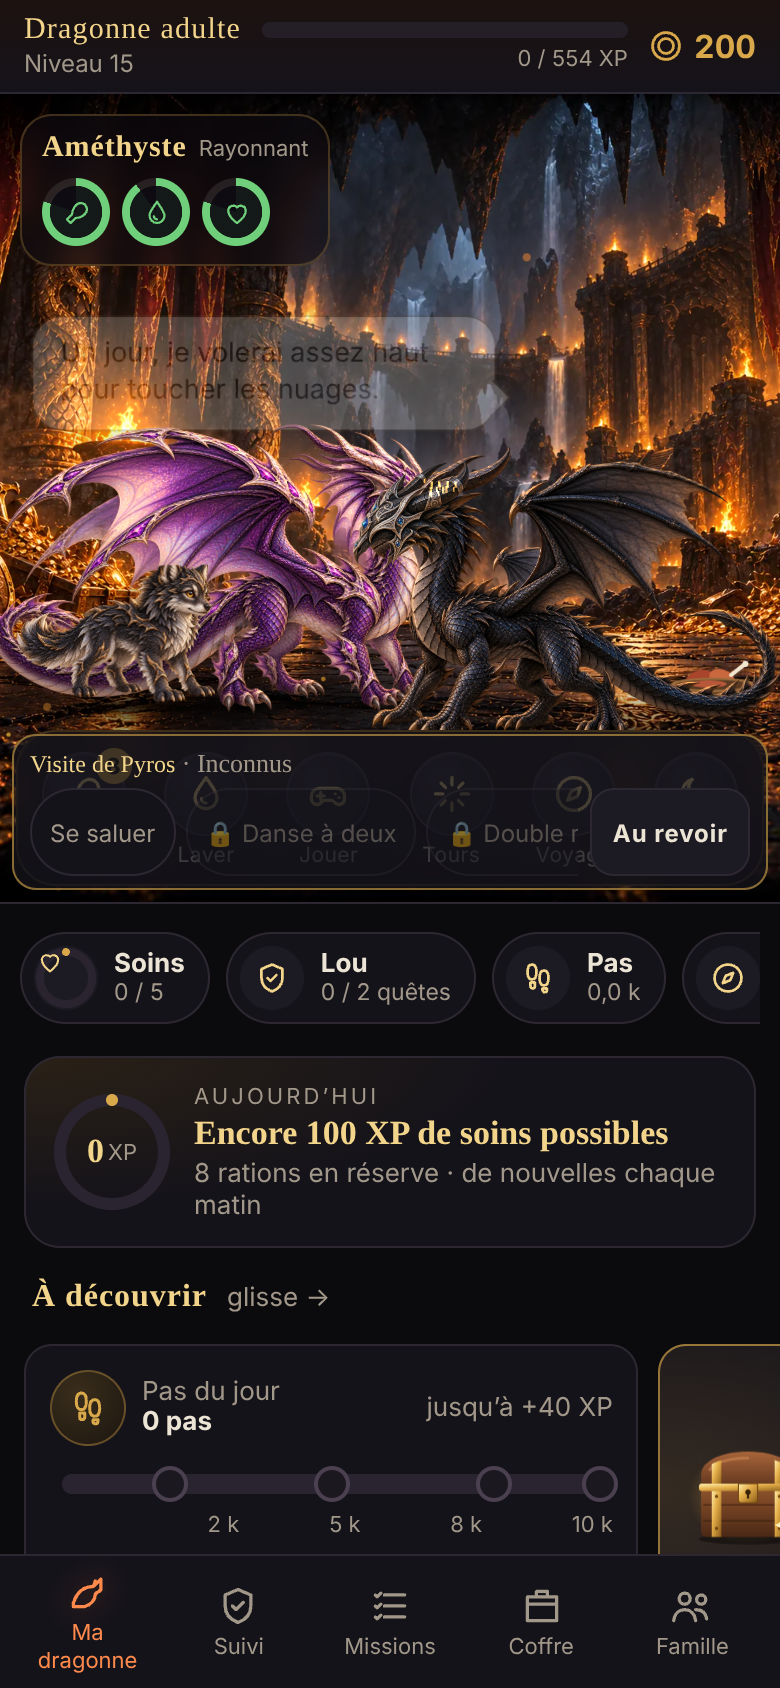
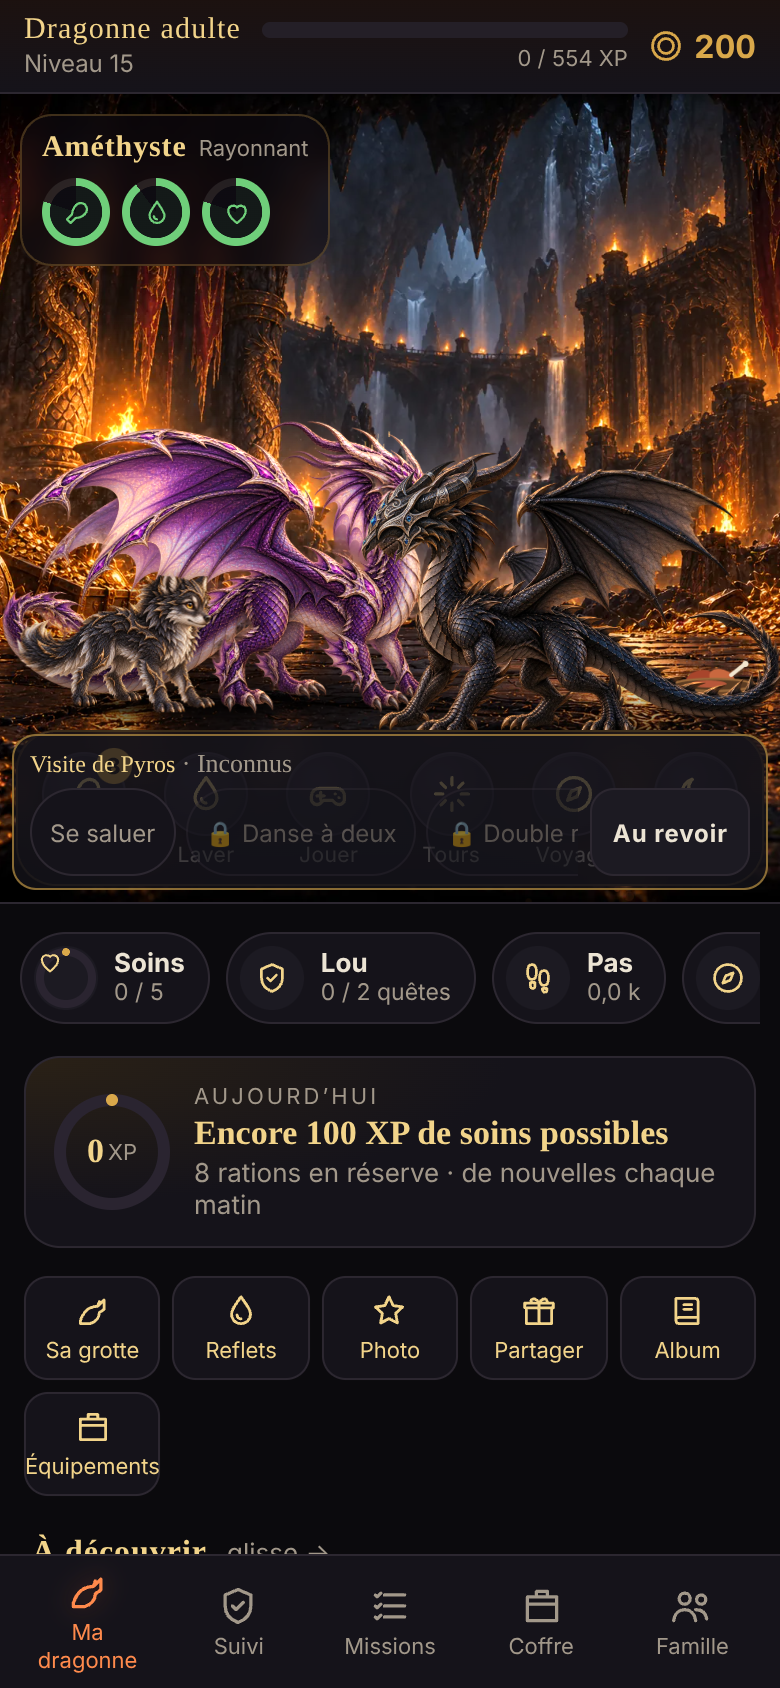
Tuiles plus compactes, boutons au-dessus des tuiles, carte d'amitié en une ligne, taille du texte fixe (pas de chevauchement), légende des pas alignée
Claude-Session: https://claude.ai/code/session_01M7p8gpSsNEM6T66Za4pvnS

diff --git a/src/ui/screens/DragonScreen.ts b/src/ui/screens/DragonScreen.ts
@@ -44,9 +44,6 @@ export class DragonScreen implements Screen {
       todayStrip(app),
       this.nameCard(comp),
       book ? questDeck(app) : this.careStrip(comp),
-      h('div', { class: 'disc-head' }, h('h3', null, 'À découvrir'), h('span', { class: 'small muted' }, 'glisse →')),
-      h('div', { class: 'disc' }, ...discover.map(c => h('div', { class: 'disc-item' }, c))),
-      app.family.duo ? this.friendCard(comp) : null,
       h('div', { class: 'ds-tools' },
         h('button', { class: 'ds-tool', onclick: () => openLair(app) }, icon(ICONS.dragon, 22), h('span', null, 'Sa grotte')),
         h('button', { class: 'ds-tool', onclick: () => appearanceSheet(app) }, icon(ICONS.drop, 22), h('span', null, 'Reflets')),
@@ -54,6 +51,9 @@ export class DragonScreen implements Screen {
         h('button', { class: 'ds-tool', onclick: () => void shareCard(app) }, icon(ICONS.gift, 22), h('span', null, 'Partager')),
         h('button', { class: 'ds-tool', onclick: () => this.albumSheet(comp) }, icon(ICONS.album, 22), h('span', null, 'Album')),
         app.isParent ? h('button', { class: 'ds-tool', onclick: () => app.openChest('owned') }, icon(ICONS.inventory, 22), h('span', null, 'Équipements')) : null),
+      h('div', { class: 'disc-head' }, h('h3', null, 'À découvrir'), h('span', { class: 'small muted' }, 'glisse →')),
+      h('div', { class: 'disc' }, ...discover.map(c => h('div', { class: 'disc-item' }, c))),
+      app.family.duo ? this.friendCard(comp) : null,
       app.careMode === 'wash' ? h('p', { class: 'small muted ds-hint' }, 'Mode lavage : frotte ses écailles avec ton doigt jusqu’à ce qu’il brille.') : null
     );
   }
@@ -113,26 +113,25 @@ export class DragonScreen implements Screen {
     if (!f) return h('section', { class: 'card friend-card' },
       h('h3', null, app.isParent ? 'Le dragon de votre enfant' : 'La dragonne de tes parents'),
       h('p', { class: 'small muted' }, 'Les deux dragons se rencontreront dès que vos deux téléphones auront ouvert l’appli à la maison (même Wi-Fi).'));
+    const hug = async () => {
+      const r = await duo.sendHug();
+      if (r === 'limit') { app.toast('Déjà 3 câlins aujourd’hui'); return; }
+      if (r !== 'ok') return;
+      app.view.emit('hearts', 'head_anchor');
+      void app.act('happy');
+      app.say(`Je transmets ton câlin à ${f.name} !`, null, 4000);
+      this.refresh();
+    };
+    const gifts = unlocked(app, 'gifts');
     return h('section', { class: 'card friend-card' },
-      h('div', { class: 'row' },
+      h('div', { class: 'fr-head' },
         h('div', { class: 'grow' }, h('div', { class: 'small muted' }, `${f.variant === 'dragonne' ? 'La dragonne' : 'Le dragon'} de ${f.owner}`), h('div', { class: 'item-name' }, `${f.name} · niveau ${f.level}`)),
-        h('div', { class: 'bond' }, h('div', { class: 'small' }, `${comp.name} & ${f.name} : ${lv.label}`),
+        h('div', { class: 'bond' }, h('div', { class: 'small' }, `Amitié : ${lv.label}`),
           h('div', { class: 'bar bond-bar' }, h('div', { class: 'fill', style: { width: `${Math.round(lv.progress * 100)}%` } })))),
-      h('p', { class: 'small muted' }, 'Chaque visite, câlin ou cadeau les rapproche, et débloque des tours à deux.'),
-      h('div', { class: 'row' },
-        h('button', { class: 'btn primary grow', onclick: () => this.visitSheet(comp) }, `Rendre visite à ${f.name}`),
-        h('span', { class: 'small muted' }, `${duo.visitsLeft()} / 3 aujourd’hui`)),
-      !unlocked(app, 'gifts') ? h('p', { class: 'small muted' }, `Câlins et cadeaux cachés : au niveau ${UNLOCK_LEVEL.gifts}.`) : h('div', { class: 'row fr-more' },
-        h('button', { class: 'btn grow', disabled: !duo.hugsLeft(), onclick: async () => {
-          const r = await duo.sendHug();
-          if (r === 'limit') { app.toast('Déjà 3 câlins aujourd’hui'); return; }
-          if (r !== 'ok') return;
-          app.view.emit('hearts', 'head_anchor');
-          void app.act('happy');
-          app.say(`Je transmets ton câlin à ${f.name} !`, null, 4000);
-          this.refresh();
-        } }, icon(ICONS.heart, 16), ` Câlin (${duo.hugsLeft()})`),
-        h('button', { class: 'btn grow', disabled: !duo.hidesLeft(), onclick: () => this.giftSheet(comp, 'hide') }, icon(ICONS.gift, 16), ' Cadeau caché')),
+      h('div', { class: 'fr-actions' },
+        h('button', { class: 'btn primary', disabled: !duo.visitsLeft(), onclick: () => this.visitSheet(comp) }, icon(ICONS.wing, 16), h('span', null, 'Visite'), h('small', null, `${duo.visitsLeft()}/3`)),
+        h('button', { class: 'btn', disabled: !gifts || !duo.hugsLeft(), onclick: () => void hug() }, icon(ICONS.heart, 16), h('span', null, 'Câlin'), h('small', null, gifts ? `${duo.hugsLeft()}/3` : `niv. ${UNLOCK_LEVEL.gifts}`)),
+        h('button', { class: 'btn', disabled: !gifts || !duo.hidesLeft(), onclick: () => this.giftSheet(comp, 'hide') }, icon(ICONS.gift, 16), h('span', null, 'Cadeau'), h('small', null, gifts ? `${duo.hidesLeft()}/2` : `niv. ${UNLOCK_LEVEL.gifts}`))),
       this.outingRow());
   }
 

diff --git a/www/css/compact.css b/www/css/compact.css
@@ -1,0 +1,67 @@
+/* Octobre 2026 : tuiles « À découvrir » plus compactes (police et marges réduites), sans chevauchement. Chargé en dernier. */
+.disc-item { flex-basis: 78%; }
+.disc-item > .card, .disc-item > section, .disc-item > button.card { padding: 10px 12px !important; font-size: 13px; line-height: 1.3; }
+.disc-item h3 { font-size: 15px !important; line-height: 1.25; }
+.disc-item p, .disc-item .small { font-size: 12px !important; line-height: 1.3; margin: 2px 0; }
+.disc-item .item-name { font-size: 14px; line-height: 1.25; }
+.disc-item .btn { padding: 6px 12px; font-size: 13px; min-height: 0; }
+.disc-item .bar, .disc-item .st-track { margin-top: 4px; }
+/* événement */
+.disc-item .ev-candies i { width: 18px; height: 18px; }
+/* pas */
+.disc-item .st-ico, .disc-item .pt-ico { width: 30px; height: 30px; }
+.st-legend { position: relative; display: block; height: 14px; margin: 2px 6px 0; padding: 0; }
+.st-legend span { position: absolute; top: 0; transform: translateX(-50%); white-space: nowrap; }
+.st-legend span:last-child { transform: translateX(-80%); }
+/* coffre du jour */
+.disc-item .sp-chest-mini { width: 48px; height: 42px; }
+.disc-item .sp-title { font-size: 15px; }
+.disc-item .sp-preview { font-size: 12px; }
+/* prochaine évolution */
+.disc-item .sp-next-card svg, .disc-item .sp-next-card img { max-height: 70px; }
+/* collection : boutons en petites pastilles */
+.disc-item .coll-card .row .btn { padding: 4px 10px; font-size: 12px; border-radius: 999px; }
+.disc-item .coll-row { padding: 2px 0; }
+.disc-item .coll-ic { width: 26px; height: 26px; }
+/* quête de famille : illustration réduite */
+.disc-item .pq-quest-art { max-height: 54px; }
+.disc-item .pq-ring { width: 58px; height: 58px; }
+.disc-item .pq-ring-text strong { font-size: 13px; }
+.disc-item .pq-ring-text span { font-size: 8px; }
+.disc-item .pq-eyebrow { font-size: 10px; }
+/* expédition */
+.disc-item .expedition .small { margin: 0; }
+
+/* outils (Grotte, Reflets…) au-dessus des tuiles : une ligne de pastilles */
+.ds-tools { grid-template-columns: repeat(auto-fit, minmax(58px, 1fr)); gap: 6px; margin: 2px 0 4px; }
+.ds-tool { padding: 7px 2px !important; gap: 3px; font-size: 11px; border-radius: 12px; }
+.ds-tool svg { width: 19px; height: 19px; }
+
+/* carte d'amitié plus compacte : visite, câlin et cadeau sur une ligne */
+.friend-card { padding: 12px !important; }
+.friend-card .btn { padding: 8px 10px; font-size: 13px; line-height: 1.2; }
+.friend-card .fr-more .btn { white-space: nowrap; }
+.fr-outing { padding: 8px 10px; }
+.fr-outing .small { font-size: 12px; line-height: 1.3; }
+
+/* colonne de gauche de la scène (état + demandes à valider) */
+.sh-left { position: absolute; left: 10px; top: 10px; display: flex; flex-direction: column; align-items: flex-start; gap: 6px; pointer-events: none; }
+.sh-left > * { pointer-events: auto; }
+.sh-left .sh-status { position: static; }
+.sh-left .sh-pending { position: static; }
+.fr-head { display: flex; align-items: flex-start; gap: 10px; }
+.fr-head .grow { min-width: 0; }
+.fr-head .bond { flex: 0 0 42%; min-width: 0; }
+.fr-head .bond .small { white-space: nowrap; overflow: hidden; text-overflow: ellipsis; }
+.fr-actions { display: grid; grid-template-columns: repeat(3, minmax(0, 1fr)); gap: 6px; margin-top: 10px; }
+.fr-actions .btn { display: flex; flex-direction: column; align-items: center; gap: 2px; padding: 8px 4px; line-height: 1.15; }
+.fr-actions .btn small { font-size: 11px; opacity: .75; font-weight: 600; }
+/* tuiles les plus hautes : quête de famille (sans grande illustration) et collection (lignes serrées) */
+.disc-item .pq-quest-art { display: none; }
+.disc-item .pq-quest-body { gap: 8px; margin-top: 6px; }
+.disc-item .pq-quest-note { margin-top: 6px; text-align: left; }
+.disc-item .pq-qbar-label { font-size: 12px; }
+.disc-item .coll-row { gap: 8px; margin: 0; }
+.disc-item .coll-label { font-size: 13px; }
+.disc-item .coll-card .row { margin-top: 6px; }
+.disc-item .sp-next-card .sp-title, .disc-item .sp-next-card strong { font-size: 13px; }

diff --git a/src/ui/ActivityUI.ts b/src/ui/ActivityUI.ts
@@ -48,7 +48,7 @@ export function stepsCard(app: App): HTMLElement | null {
       h('div', { class: 'st-fill', style: { width: `${Math.min(100, (d.steps / top) * 100)}%` } }),
       ...tiers.map(t => h('span', { class: `st-mark${t.reached ? ' on' : ''}`, style: { left: `${(t.at / top) * 100}%` }, title: `${fmt(t.at)} pas : +${t.xp} XP, +${t.gold} or` },
         t.reached ? icon(ICONS.check, 11) : null))),
-    h('div', { class: 'st-legend' }, ...tiers.map(t => h('span', { class: t.reached ? 'on' : '' }, `${t.at / 1000} k`))),
+    h('div', { class: 'st-legend' }, ...tiers.map(t => h('span', { class: t.reached ? 'on' : '', style: { left: `${(t.at / top) * 100}%` } }, `${t.at / 1000} k`))),
     h('p', { class: 'small muted' }, next
       ? `Prochain palier : ${fmt(next.at)} pas (+${next.xp} XP, +${next.gold} or). Encore ${fmt(next.at - d.steps)}.`
       : 'Tous les paliers du jour sont atteints. Bravo !'));

diff --git a/src/ui/StageHud.ts b/src/ui/StageHud.ts
@@ -36,7 +36,8 @@ export class StageHud {
     this.bar = h('div', { class: 'sh-bar', role: 'toolbar', 'aria-label': 'Actions' });
     // Parent : demandes de l'enfant à valider, visibles sur la scène de la dragonne
     this.pending = h('button', { class: 'sh-pending', onclick: () => app.show('validations') });
-    this.root.append(this.status, this.pending, this.bar);
+    // colonne de gauche : état du dragon, puis (parent) les demandes à valider juste en dessous, sans chevauchement
+    this.root.append(h('div', { class: 'sh-left' }, this.status, this.pending), this.bar);
     app.root.querySelector('.stage-view')?.append(this.root);
     this.root.hidden = true;
   }

diff --git a/www/index.html b/www/index.html
@@ -17,6 +17,7 @@
   <link rel="stylesheet" href="css/home.css">
   <link rel="stylesheet" href="css/care.css">
   <link rel="stylesheet" href="css/density.css">
+  <link rel="stylesheet" href="css/compact.css">
   <link rel="stylesheet" href="css/dev.css">
 </head>
 <body>

diff --git a/src/ui/App.ts b/src/ui/App.ts
@@ -64,7 +64,7 @@ export interface FamilyContext {
   voyage?: Voyage | null;
 }
 
-export const APP_VERSION = '0.27.3';
+export const APP_VERSION = '0.28.0';
 
 export class App {
   /** Essai en boutique : affiché sur le dragon sans être acheté ni équipé. */

diff --git a/plugins/home-link/android/src/main/java/fr/questedudragon/homelink/HomeLinkPlugin.java b/plugins/home-link/android/src/main/java/fr/questedudragon/homelink/HomeLinkPlugin.java
@@ -30,6 +30,8 @@ public class HomeLinkPlugin extends Plugin {
         current = this;
         if (LinkStore.isPaired(getContext())) HomeLinkService.start(getContext());
         try { capture(getActivity().getIntent(), false); } catch (Exception ignored) { }
+        // Taille du texte fixe : sinon la police agrandie du téléphone fait déborder et se chevaucher les textes de l'appli.
+        try { getBridge().getWebView().getSettings().setTextZoom(100); } catch (Exception ignored) { }
         NearbyLink.update(getContext());
     }
 
